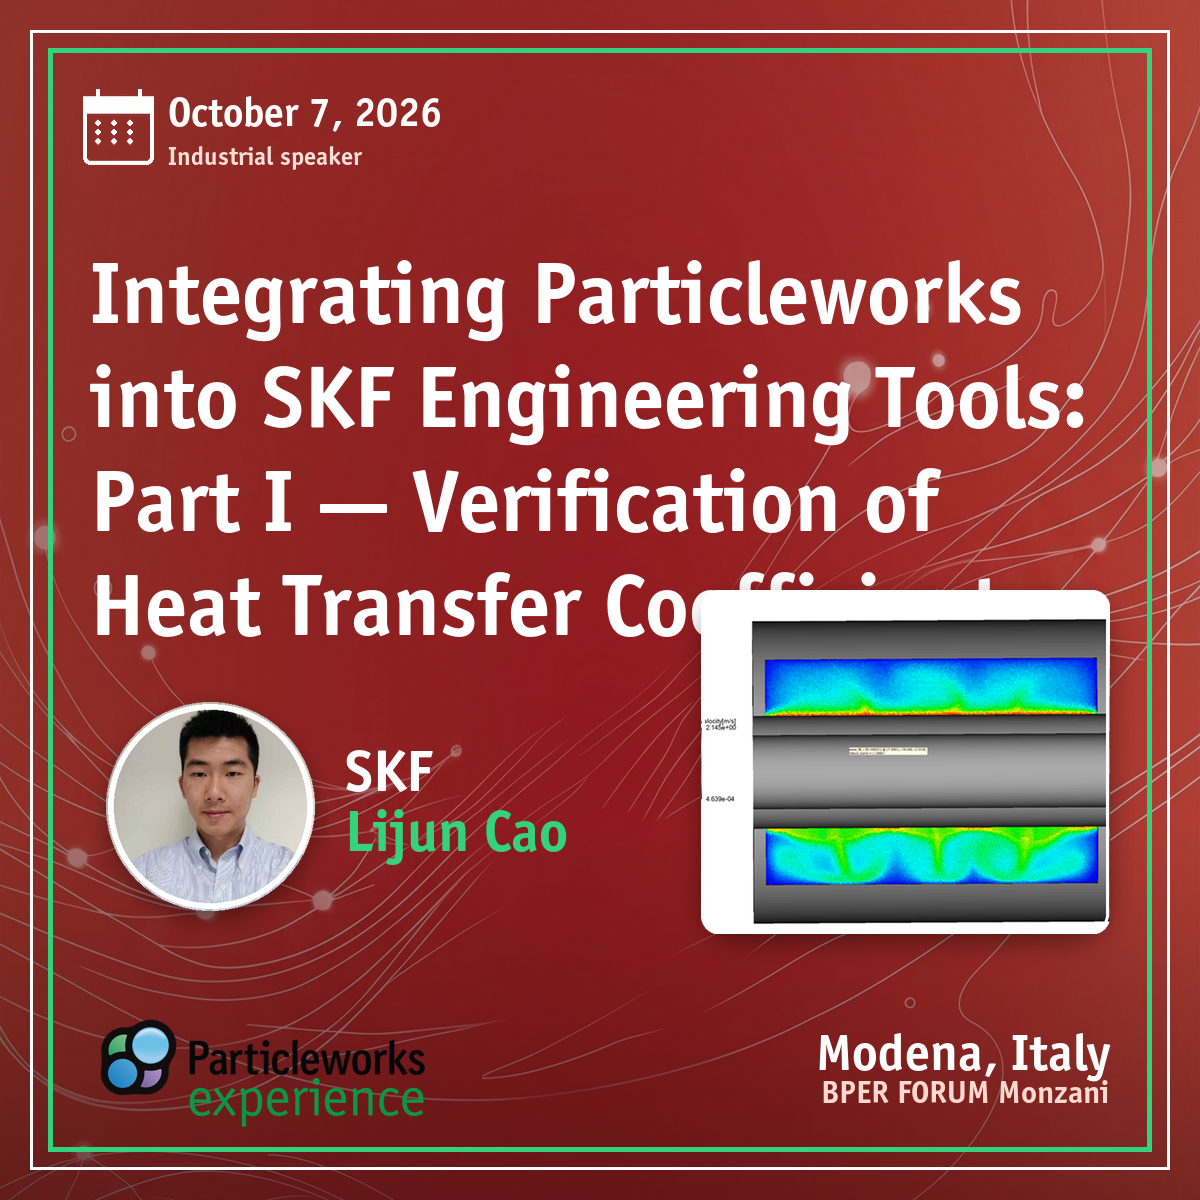
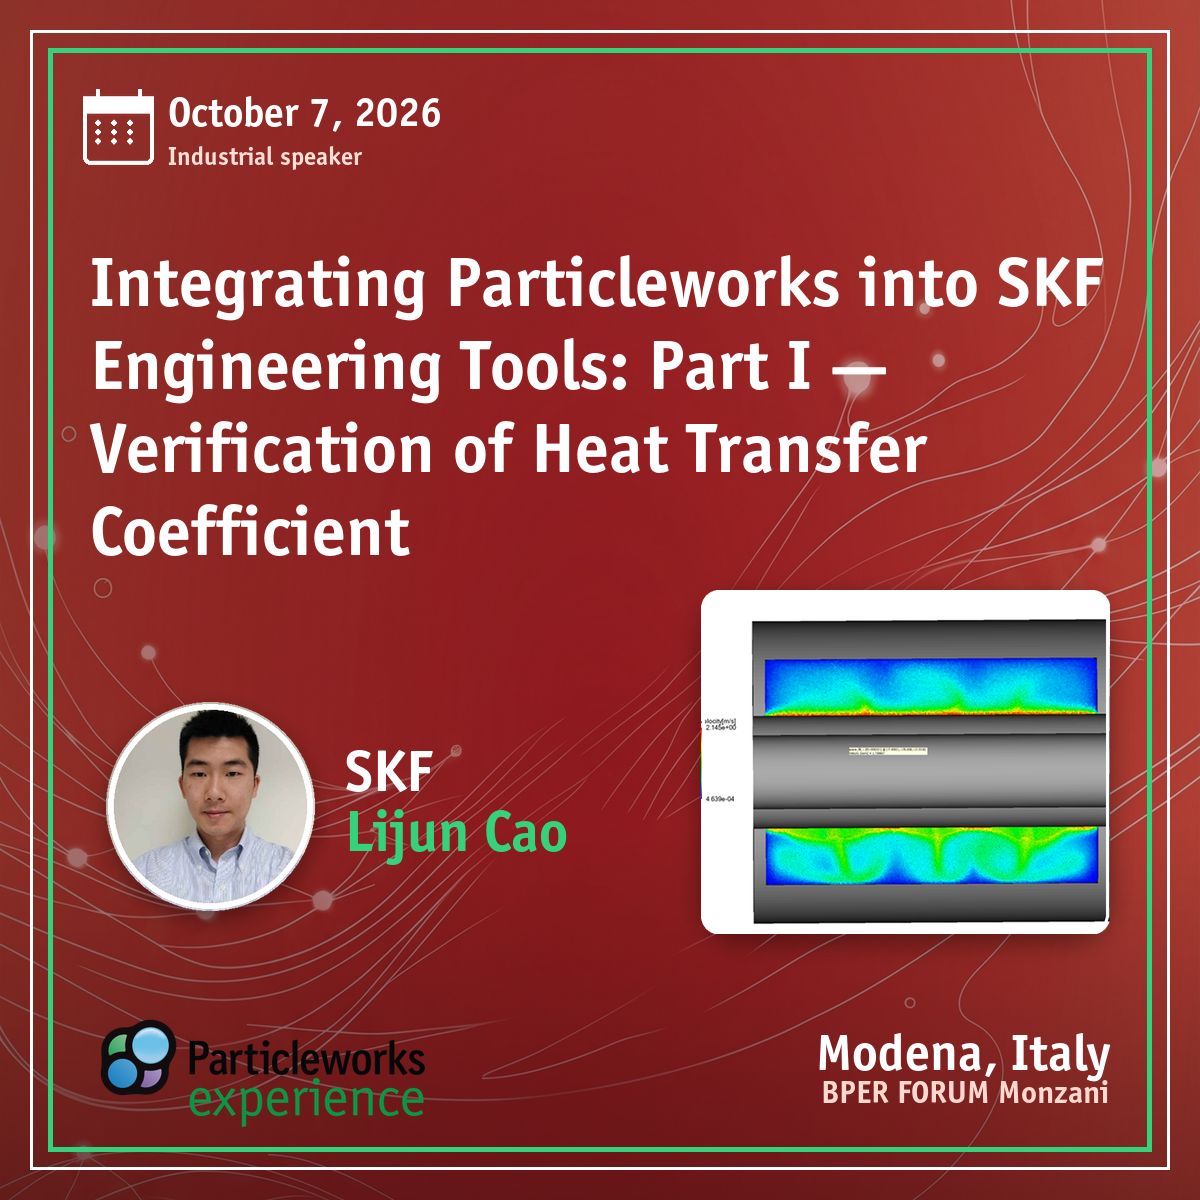
experience/2026: program-announcement card, fix sim/title overlap, target-company lists
- New general card-00-program.png ("THE PROGRAM IS OUT") with an
  application-tag cloud (e-drivetrains, bearings, hydropower, ...)
- Fix title/sim overlap on sim cards: long titles now fit above the
  sim panel (re-rendered card-06 SKF and card-09 Univance)
- LinkedIn doc: add an announcement post + 30 industry-matched
  companies to tag/target under every post; build_posts.py is the
  source of truth, regenerates both .md and .docx

Changed region(s): [[0.0617, 0.2158, 0.925, 0.555], [0.8017, 0.4625, 0.8325, 0.4933]]

diff --git a/experience/cards/build_posts.py b/experience/cards/build_posts.py
@@ -73,6 +73,30 @@ posts = [
             "Support optimisation of transmission design and drivetrain efficiency"]),
 ]
 
+# announcement post (program release) — shown first, uses a program-link CTA
+posts.insert(0, dict(card="card-00-program.png", head="📣 THE PROGRAM IS OUT",
+   intro="The full programme for Particleworks Experience 2026 is online — 10 talks across two days in Modena, spanning e-drivetrains, e-motor cooling, bearings, gearboxes, gear lubrication, pumps, hydropower, aerospace and aeration.",
+   lead="Join the meshless-CFD community on 6–7 October:",
+   bullets=["10 validated industrial & academic case studies",
+            "The release of Particleworks 9.0 and Granuleworks 4.0",
+            "Hands-on workshops and networking at BPER FORUM Monzani"],
+   cta="See the full program and register for free: https://particleworks-europe.com/experience/program.php"))
+
+# 30 companies to tag / target per post, keyed by card (matched to each talk's industry)
+COMPANIES = {
+ "card-00-program.png": "ZF, Bosch, Schaeffler, Continental, Vitesco Technologies, BorgWarner, Magna, Dana, GKN Automotive, Valeo, Mahle, Marelli, Stellantis, Volkswagen Group, BMW Group, Mercedes-Benz, Renault Group, Volvo Cars, Ferrari, Toyota, Hyundai Motor Group, Nidec, AVL, FEV, Ricardo, MTU Aero Engines, Rolls-Royce, Safran, SKF, Comer Industries",
+ "card-01-prometech.png": "Robert Bosch, ZF Friedrichshafen, Schaeffler, Continental, Vitesco Technologies, BorgWarner, Magna, Valeo, Mahle, Dana, GKN Automotive, IAV, AVL, FEV, Ricardo, hofer powertrain, Bertrandt, EDAG Engineering, Porsche Engineering, Stellantis, BMW Group, Mercedes-Benz, Volkswagen Group, Toyota, Honda, Hyundai Motor Group, Nidec, Marelli, Denso, Aisin",
+ "card-02-mtu.png": "Rolls-Royce, Safran, GE Aerospace, Pratt & Whitney, Honeywell Aerospace, Avio Aero, ITP Aero, GKN Aerospace, Collins Aerospace, Liebherr-Aerospace, Leonardo, Airbus, Boeing, Williams International, ArianeGroup, Curtiss-Wright Surface Technologies, Metal Improvement Company, Wheelabrator (Norican Group), Rösler Oberflächentechnik, Sintokogio, Sturm Maschinenbau, KSA Kugelstrahltechnik, Engineered Abrasives, Oerlikon Balzers, Bodycote, Doncasters Group, Howmet Aerospace, Rheinmetall, MTU Maintenance, Praxair Surface Technologies",
+ "card-03-unimore-stator.png": "Vitesco Technologies, BorgWarner, ZF, Bosch, Mahle, Valeo, Nidec, Magna Powertrain, Dana TM4, Schaeffler, hofer powertrain, Equipmake, YASA, Marelli, Hyundai Mobis, Hyundai Transys, Aisin, Denso, Tesla, Rivian, Lucid Motors, BMW Group, Mercedes-Benz, Volkswagen Group, Porsche, Stellantis, BYD, Rimac Technology, Drive System Design, AVL",
+ "card-04-rdcfd-pump.png": "KSB, Grundfos, Sulzer, Wilo, Bosch Rexroth, Parker Hannifin, Danfoss Power Solutions, Eaton, HAWE Hydraulik, Moog, Xylem, Flowserve, Weir Group, ITT, Pentair, Casappa, Bucher Hydraulics, Marzocchi Pompe, Kawasaki Precision Machinery, Bondioli & Pavesi, Interpump Group, HYDAC, Argo-Hytos, Graco, Pierburg, Continental, Caterpillar, Liebherr, Brevini, Duplomatic MS",
+ "card-05-hesso-pelton.png": "Voith Hydro, Andritz Hydro, GE Vernova Hydro, Gilkes, Litostroj Power, ZECO Hydropower, Canyon Hydro, Global Hydro Energy, Mavel, Rainpower, EDF, Statkraft, Verbund, Enel Green Power, Hydro-Québec, Axpo, Alpiq, BKW, Iberdrola, Vattenfall, Norconsult, Stucky (Gruner Group), AFRY, WWS Wasserkraft, Toshiba Energy Systems, Sulzer, Tractebel, SN Power, Troy Hydro, Mecamidi",
+ "card-06-skf.png": "Schaeffler, NSK, NTN, The Timken Company, JTEKT (Koyo), GMN Bearing, IKO Nippon Thompson, RBC Bearings, ZF, Bosch, Dana, GKN Automotive, BorgWarner, Comer Industries, Bonfiglioli, Carraro, Oerlikon Graziano, Allison Transmission, Eaton, Aisin, Voith, Flender, Siemens Gamesa, Vestas, Nordex, Liebherr, Caterpillar, Komatsu, Danfoss, Wittenstein",
+ "card-07-deepfluid.png": "FUCHS, Klüber Lubrication, Shell, TotalEnergies, Castrol (BP), ExxonMobil, Petronas Lubricants, Liqui Moly, Bosch Rexroth, Parker Hannifin, Danfoss, HAWE Hydraulik, HYDAC, Moog, ZF, Schaeffler, Flender, SEW-Eurodrive, Bonfiglioli, Wittenstein, Bosch, Eaton, Comer Industries, Voith, GKN Automotive, Dana, Argo-Hytos, Stauff, MAHLE, Mann+Hummel",
+ "card-08-trackone.png": "Caterpillar, Komatsu, Liebherr, John Deere, Hitachi Construction Machinery, Volvo CE, JCB, Develon (Doosan), Hyundai Construction Equipment, Kubota, CNH Industrial, Bobcat, Sany, XCMG, Zoomlion, Berco (thyssenkrupp), Italtractor ITM, Titan International, Camso (Michelin), USCO, Topy Industries, Prinoth, Kässbohrer (PistenBully), Claas, AGCO, Manitou, Terex, Wacker Neuson, Takeuchi, Yanmar",
+ "card-09-univance.png": "Aisin, JTEKT, Hyundai Transys, ZF, GKN Automotive, Dana, BorgWarner, Schaeffler, Eaton, Allison Transmission, Oerlikon Graziano, Comer Industries, Bonfiglioli, Carraro, Brevini, Flender, SEW-Eurodrive, Wittenstein, Magna Powertrain, Marelli, Punch Powertrain, Vitesco Technologies, Drive System Design, Ricardo, AVL, FEV, Voith, Bharat Forge, Getrag, Bosch",
+ "card-10-iav.png": "Daimler Truck, Volvo Trucks, Scania, MAN Truck & Bus, Traton Group, Iveco Group, PACCAR (DAF), CNH Industrial, ZF, Bosch, Vitesco Technologies, BorgWarner, Dana, Allison Transmission, Eaton, Voith, Schaeffler, Magna, AVL, FEV, Ricardo, Cummins, Deutz, Bharat Forge, Meritor, Hyundai Motor, BYD, Punch Powertrain, hofer powertrain, Drive System Design",
+}
+
 # ---------- DOCX ----------
 doc = Document()
 st = doc.styles["Normal"].font; st.name="Calibri"; st.size=Pt(11)
@@ -89,8 +113,10 @@ for i,po in enumerate(posts):
         doc.add_paragraph(b, style="List Bullet")
     doc.add_paragraph(LOC)
     doc.add_paragraph(DATE)
-    doc.add_paragraph(CTA)
+    doc.add_paragraph(po.get("cta", CTA))
     note=doc.add_paragraph(); rn=note.add_run(f"🖼 Suggested image: {po['card']}"); rn.italic=True; rn.font.color.rgb=RGBColor(0x6c,0x75,0x7d)
+    cp=doc.add_paragraph(); rc=cp.add_run("🏷 30 companies to tag / target: "); rc.bold=True
+    cp.add_run(COMPANIES[po["card"]])
     if i<len(posts)-1:
         sep=doc.add_paragraph("— — — — — — — — — — — — — — — — — — — —"); sep.alignment=WD_ALIGN_PARAGRAPH.CENTER
 doc.save(os.path.join(OUT,"linkedin-posts-2026.docx"))
@@ -106,9 +132,12 @@ for po in posts:
     md.append(po["lead"])
     for b in po["bullets"]: md.append(f"- {b}")
     md.append("")
-    md.append(LOC+"  "); md.append(DATE+"  "); md.append(CTA)
+    md.append(LOC+"  "); md.append(DATE+"  "); md.append(po.get("cta", CTA))
     md.append("")
     md.append(f"*Suggested image: `{po['card']}`*")
+    md.append("")
+    md.append("**🏷 30 companies to tag / target with this post:**  ")
+    md.append(COMPANIES[po["card"]])
     md.append(""); md.append("---"); md.append("")
 open(os.path.join(OUT,"linkedin-posts-2026.md"),"w",encoding="utf-8").write("\n".join(md))
 print("wrote docx + md ->", OUT)

diff --git a/experience/cards/cards_build.py b/experience/cards/cards_build.py
@@ -116,13 +116,17 @@ def wrap(text,ft,max_w):
     return out
 
 # ---------- shared text fitting ----------
-def fit_title(text):
+def fit_title(text,maxh=TITLE_MAXH,minpx=TITLE_MINPX):
     px=TITLE_MAXPX
-    while px>=TITLE_MINPX:
+    while px>=minpx:
         ft=f(px); lines=wrap(text,ft,TITLE_W); lh=int(px*1.16)
-        if len(lines)*lh<=TITLE_MAXH: return ft,lines,lh
+        if len(lines)*lh<=maxh: return ft,lines,lh
         px-=3
-    ft=f(TITLE_MINPX); return ft,wrap(text,ft,TITLE_W),int(TITLE_MINPX*1.16)
+    ft=f(minpx); return ft,wrap(text,ft,TITLE_W),int(minpx*1.16)
+def title_box(c):
+    # when a sim panel sits lower-right (top at SIM_Y), keep the title above it
+    if c.get("sim"): return dict(maxh=SIM_Y-TITLE_Y-14, minpx=46)
+    return dict(maxh=TITLE_MAXH, minpx=TITLE_MINPX)
 def comp_w(sim): return (SIM_X-COMP_X-20) if sim else (VEN_RIGHT-COMP_X)
 
 # ---------- flat PNG renderer ----------
@@ -133,7 +137,7 @@ def render_png(c):
     d=ImageDraw.Draw(im)
     d.text(DATE_POS,c["date"],font=f(DATE_PX),fill=WHITE); d.text(CAT_POS,c["cat"],font=f(CAT_PX),fill=SUB)
     sim=c.get("sim")
-    tf,lines,lh=fit_title(c["title"]); y=TITLE_Y
+    tf,lines,lh=fit_title(c["title"],**title_box(c)); y=TITLE_Y
     for ln in lines: d.text((TITLE_X,y),ln,font=tf,fill=WHITE); y+=lh
     if sim:
         sp=Image.open(os.path.join(PROC,sim)).convert("RGBA").resize((SIM_W,SIM_H),Image.LANCZOS)
@@ -150,6 +154,39 @@ def render_png(c):
     d.text((VEN_RIGHT-f(VEN1_PX).getlength(L1),VEN1_Y),L1,font=f(VEN1_PX),fill=WHITE)
     d.text((VEN_RIGHT-f(VEN2_PX).getlength(L2),VEN2_Y),L2,font=f(VEN2_PX),fill=SUBLOC)
     im.convert("RGB").save(os.path.join(OUT,c["file"]),"PNG"); print("png",c["file"])
+
+# ---------- general "program is out" announcement card ----------
+GEN_TAGS=["E-Drivetrains","E-Motor Cooling","Bearings","Gearboxes","Gear Lubrication",
+          "Pumps & CHT","Hydropower","Aerospace","Aeration"]
+def draw_tags(im,tags,x0,y0,maxw,fs=40,gap=18,vgap=20,padx=32,pady=15):
+    # draw on a separate RGBA layer so the translucent pill fill blends instead of overwriting
+    ov=Image.new("RGBA",im.size,(0,0,0,0)); d=ImageDraw.Draw(ov)
+    ft=f(fs); ph=fs+pady*2; x=x0; y=y0
+    for t in tags:
+        pw=ft.getlength(t)+padx*2
+        if x+pw>x0+maxw: x=x0; y+=ph+vgap
+        d.rounded_rectangle([x,y,x+pw,y+ph],radius=ph//2,fill=(255,255,255,38),outline=GREEN,width=3)
+        d.text((x+padx,y+ph/2),t,font=ft,fill=WHITE,anchor="lm")
+        x+=pw+gap
+    im.alpha_composite(ov)
+    return y+ph
+def render_general(fname="card-00-program.png"):
+    im=Image.open(os.path.join(PROC,"bg_square.png")).convert("RGBA"); d=ImageDraw.Draw(im)
+    d.rectangle([30,30,S-31,S-31],outline=WHITE,width=3); d.rectangle([48,48,S-49,S-49],outline=GREEN,width=5)
+    cal=Image.open(os.path.join(PROC,"cal.png")).resize((CAL_W,CAL_H),Image.LANCZOS); im.alpha_composite(cal,CAL_POS)
+    d=ImageDraw.Draw(im)
+    d.text(DATE_POS,"October 6–7, 2026",font=f(DATE_PX),fill=WHITE)
+    d.text(CAT_POS,"Conference programme",font=f(CAT_PX),fill=SUB)
+    d.text((90,250),"THE PROGRAM",font=f(118),fill=WHITE)
+    d.text((90,392),"IS OUT",font=f(118),fill=GREEN)
+    d.text((92,556),"Particleworks Experience 2026 — 10 talks across two days",font=f(40),fill=SUBLOC)
+    yend=draw_tags(im,GEN_TAGS,92,648,1016); d=ImageDraw.Draw(im)
+    d.text((92,yend+30),"Full agenda online · register free",font=f(44),fill=WHITE)
+    lg=Image.open(LOGO).convert("RGBA"); lg=lg.resize((LOGO_W,int(lg.size[1]*LOGO_W/lg.size[0])),Image.LANCZOS)
+    im.alpha_composite(lg,(LOGO_X,LOGO_Y))
+    d.text((VEN_RIGHT-f(VEN1_PX).getlength(L1),VEN1_Y),L1,font=f(VEN1_PX),fill=WHITE)
+    d.text((VEN_RIGHT-f(VEN2_PX).getlength(L2),VEN2_Y),L2,font=f(VEN2_PX),fill=SUBLOC)
+    im.convert("RGB").save(os.path.join(OUT,fname),"PNG"); print("png",fname)
 
 # ---------- editable PPTX ----------
 def build_pptx(cards):
@@ -180,7 +217,7 @@ def build_pptx(cards):
         tb(sl,DATE_POS[0],DATE_POS[1],520,52,c["date"],DATE_PX,WHITE)
         tb(sl,CAT_POS[0],CAT_POS[1],520,34,c["cat"],CAT_PX,SUB)
         sim=c.get("sim")
-        tpx=fit_title(c["title"])[0].size
+        tpx=fit_title(c["title"],**title_box(c))[0].size
         tb(sl,TITLE_X,TITLE_Y,TITLE_W,TITLE_MAXH,c["title"],tpx,WHITE)
         if sim: sl.shapes.add_picture(os.path.join(PROC,sim),IN(SIM_X),IN(SIM_Y),IN(SIM_W),IN(SIM_H))
         sl.shapes.add_picture(os.path.join(PROC,c["avatar"]),IN(AV_X),IN(AV_Y),IN(AV_D),IN(AV_D))
@@ -231,6 +268,7 @@ if __name__=="__main__":
     make_sim(os.path.join(PROC,"deepfluid.png"),os.path.join(PROC,"sim_deepfluid.png"))
     make_sim(os.path.join(PROC,"univance.png"),os.path.join(PROC,"sim_univance.png"))
     print("assets ready")
+    render_general()
     for c in cards: render_png(c)
     build_pptx(cards)
     print("ALL DONE")

diff --git a/experience/cards/linkedin-posts-2026.md b/experience/cards/linkedin-posts-2026.md
@@ -6,6 +6,26 @@ Register link: https://particleworks-europe.com/experience/registration.php
 
 ---
 
+## 📣 THE PROGRAM IS OUT
+
+The full programme for Particleworks Experience 2026 is online — 10 talks across two days in Modena, spanning e-drivetrains, e-motor cooling, bearings, gearboxes, gear lubrication, pumps, hydropower, aerospace and aeration.
+
+Join the meshless-CFD community on 6–7 October:
+- 10 validated industrial & academic case studies
+- The release of Particleworks 9.0 and Granuleworks 4.0
+- Hands-on workshops and networking at BPER FORUM Monzani
+
+📍 Modena, Italy 🇮🇹  
+📅 6-7 Oct 2026  
+See the full program and register for free: https://particleworks-europe.com/experience/program.php
+
+*Suggested image: `card-00-program.png`*
+
+**🏷 30 companies to tag / target with this post:**  
+ZF, Bosch, Schaeffler, Continental, Vitesco Technologies, BorgWarner, Magna, Dana, GKN Automotive, Valeo, Mahle, Marelli, Stellantis, Volkswagen Group, BMW Group, Mercedes-Benz, Renault Group, Volvo Cars, Ferrari, Toyota, Hyundai Motor Group, Nidec, AVL, FEV, Ricardo, MTU Aero Engines, Rolls-Royce, Safran, SKF, Comer Industries
+
+---
+
 ## 🚀 WHAT'S NEW IN PARTICLEWORKS 9.0 & GRANULEWORKS 4.0
 
 Iori Saigo from Prometech Software will unveil the latest Particleworks 9.0 and Granuleworks 4.0 releases.
@@ -20,6 +40,9 @@ Discover what's new in particle-based simulation:
 To attend Particleworks Experience 2026, register for free: https://particleworks-europe.com/experience/registration.php
 
 *Suggested image: `card-01-prometech.png`*
+
+**🏷 30 companies to tag / target with this post:**  
+Robert Bosch, ZF Friedrichshafen, Schaeffler, Continental, Vitesco Technologies, BorgWarner, Magna, Valeo, Mahle, Dana, GKN Automotive, IAV, AVL, FEV, Ricardo, hofer powertrain, Bertrandt, EDAG Engineering, Porsche Engineering, Stellantis, BMW Group, Mercedes-Benz, Volkswagen Group, Toyota, Honda, Hyundai Motor Group, Nidec, Marelli, Denso, Aisin
 
 ---
 
@@ -38,6 +61,9 @@ To attend Particleworks Experience 2026, register for free: https://particlework
 
 *Suggested image: `card-02-mtu.png`*
 
+**🏷 30 companies to tag / target with this post:**  
+Rolls-Royce, Safran, GE Aerospace, Pratt & Whitney, Honeywell Aerospace, Avio Aero, ITP Aero, GKN Aerospace, Collins Aerospace, Liebherr-Aerospace, Leonardo, Airbus, Boeing, Williams International, ArianeGroup, Curtiss-Wright Surface Technologies, Metal Improvement Company, Wheelabrator (Norican Group), Rösler Oberflächentechnik, Sintokogio, Sturm Maschinenbau, KSA Kugelstrahltechnik, Engineered Abrasives, Oerlikon Balzers, Bodycote, Doncasters Group, Howmet Aerospace, Rheinmetall, MTU Maintenance, Praxair Surface Technologies
+
 ---
 
 ## ⚡ E-MOTOR STATOR COOLING
@@ -54,6 +80,9 @@ Leveraging particle simulation, the study was able to achieve:
 To attend Particleworks Experience 2026, register for free: https://particleworks-europe.com/experience/registration.php
 
 *Suggested image: `card-03-unimore-stator.png`*
+
+**🏷 30 companies to tag / target with this post:**  
+Vitesco Technologies, BorgWarner, ZF, Bosch, Mahle, Valeo, Nidec, Magna Powertrain, Dana TM4, Schaeffler, hofer powertrain, Equipmake, YASA, Marelli, Hyundai Mobis, Hyundai Transys, Aisin, Denso, Tesla, Rivian, Lucid Motors, BMW Group, Mercedes-Benz, Volkswagen Group, Porsche, Stellantis, BYD, Rimac Technology, Drive System Design, AVL
 
 ---
 
@@ -72,6 +101,9 @@ To attend Particleworks Experience 2026, register for free: https://particlework
 
 *Suggested image: `card-04-rdcfd-pump.png`*
 
+**🏷 30 companies to tag / target with this post:**  
+KSB, Grundfos, Sulzer, Wilo, Bosch Rexroth, Parker Hannifin, Danfoss Power Solutions, Eaton, HAWE Hydraulik, Moog, Xylem, Flowserve, Weir Group, ITT, Pentair, Casappa, Bucher Hydraulics, Marzocchi Pompe, Kawasaki Precision Machinery, Bondioli & Pavesi, Interpump Group, HYDAC, Argo-Hytos, Graco, Pierburg, Continental, Caterpillar, Liebherr, Brevini, Duplomatic MS
+
 ---
 
 ## 💧 PELTON TURBINE EROSION
@@ -88,6 +120,9 @@ Leveraging GPU-accelerated MPS, the study was able to:
 To attend Particleworks Experience 2026, register for free: https://particleworks-europe.com/experience/registration.php
 
 *Suggested image: `card-05-hesso-pelton.png`*
+
+**🏷 30 companies to tag / target with this post:**  
+Voith Hydro, Andritz Hydro, GE Vernova Hydro, Gilkes, Litostroj Power, ZECO Hydropower, Canyon Hydro, Global Hydro Energy, Mavel, Rainpower, EDF, Statkraft, Verbund, Enel Green Power, Hydro-Québec, Axpo, Alpiq, BKW, Iberdrola, Vattenfall, Norconsult, Stucky (Gruner Group), AFRY, WWS Wasserkraft, Toshiba Energy Systems, Sulzer, Tractebel, SN Power, Troy Hydro, Mecamidi
 
 ---
 
@@ -106,6 +141,9 @@ To attend Particleworks Experience 2026, register for free: https://particlework
 
 *Suggested image: `card-06-skf.png`*
 
+**🏷 30 companies to tag / target with this post:**  
+Schaeffler, NSK, NTN, The Timken Company, JTEKT (Koyo), GMN Bearing, IKO Nippon Thompson, RBC Bearings, ZF, Bosch, Dana, GKN Automotive, BorgWarner, Comer Industries, Bonfiglioli, Carraro, Oerlikon Graziano, Allison Transmission, Eaton, Aisin, Voith, Flender, Siemens Gamesa, Vestas, Nordex, Liebherr, Caterpillar, Komatsu, Danfoss, Wittenstein
+
 ---
 
 ## 🫧 DIRECT AIR-IN-OIL MEASUREMENT
@@ -122,6 +160,9 @@ Leveraging optical measurement and particle simulation, deepfluid was able to:
 To attend Particleworks Experience 2026, register for free: https://particleworks-europe.com/experience/registration.php
 
 *Suggested image: `card-07-deepfluid.png`*
+
+**🏷 30 companies to tag / target with this post:**  
+FUCHS, Klüber Lubrication, Shell, TotalEnergies, Castrol (BP), ExxonMobil, Petronas Lubricants, Liqui Moly, Bosch Rexroth, Parker Hannifin, Danfoss, HAWE Hydraulik, HYDAC, Moog, ZF, Schaeffler, Flender, SEW-Eurodrive, Bonfiglioli, Wittenstein, Bosch, Eaton, Comer Industries, Voith, GKN Automotive, Dana, Argo-Hytos, Stauff, MAHLE, Mann+Hummel
 
 ---
 
@@ -140,6 +181,9 @@ To attend Particleworks Experience 2026, register for free: https://particlework
 
 *Suggested image: `card-08-trackone.png`*
 
+**🏷 30 companies to tag / target with this post:**  
+Caterpillar, Komatsu, Liebherr, John Deere, Hitachi Construction Machinery, Volvo CE, JCB, Develon (Doosan), Hyundai Construction Equipment, Kubota, CNH Industrial, Bobcat, Sany, XCMG, Zoomlion, Berco (thyssenkrupp), Italtractor ITM, Titan International, Camso (Michelin), USCO, Topy Industries, Prinoth, Kässbohrer (PistenBully), Claas, AGCO, Manitou, Terex, Wacker Neuson, Takeuchi, Yanmar
+
 ---
 
 ## ⚙ GEAR LUBRICATION & AIRFLOW
@@ -157,6 +201,9 @@ To attend Particleworks Experience 2026, register for free: https://particlework
 
 *Suggested image: `card-09-univance.png`*
 
+**🏷 30 companies to tag / target with this post:**  
+Aisin, JTEKT, Hyundai Transys, ZF, GKN Automotive, Dana, BorgWarner, Schaeffler, Eaton, Allison Transmission, Oerlikon Graziano, Comer Industries, Bonfiglioli, Carraro, Brevini, Flender, SEW-Eurodrive, Wittenstein, Magna Powertrain, Marelli, Punch Powertrain, Vitesco Technologies, Drive System Design, Ricardo, AVL, FEV, Voith, Bharat Forge, Getrag, Bosch
+
 ---
 
 ## 🫧 AIR BUBBLE DYNAMICS IN E-DRIVETRAINS
@@ -173,5 +220,8 @@ Leveraging the IAV Particle Explorer and high-speed imaging, the team was able t
 To attend Particleworks Experience 2026, register for free: https://particleworks-europe.com/experience/registration.php
 
 *Suggested image: `card-10-iav.png`*
+
+**🏷 30 companies to tag / target with this post:**  
+Daimler Truck, Volvo Trucks, Scania, MAN Truck & Bus, Traton Group, Iveco Group, PACCAR (DAF), CNH Industrial, ZF, Bosch, Vitesco Technologies, BorgWarner, Dana, Allison Transmission, Eaton, Voith, Schaeffler, Magna, AVL, FEV, Ricardo, Cummins, Deutz, Bharat Forge, Meritor, Hyundai Motor, BYD, Punch Powertrain, hofer powertrain, Drive System Design
 
 ---
